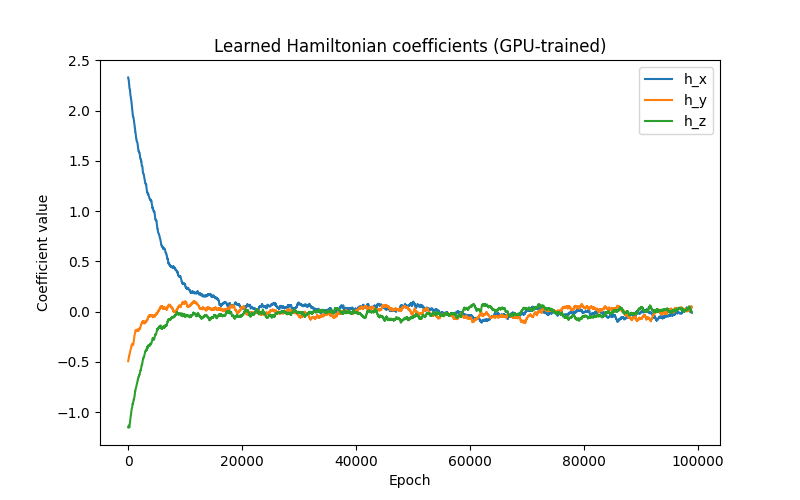
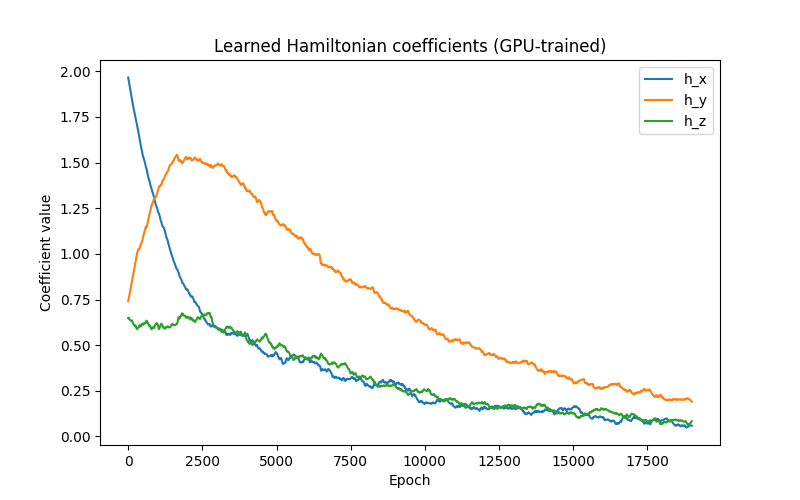
found hamiltonian

diff --git a/RNN_Code.py b/RNN_Code.py
@@ -24,12 +24,21 @@ psi_0 = torch.tensor(
     dtype=torch.complex64,  # use .complex64 for CUDA compatibility
     device=device
 )
-
+def ln(x, N):
+    sum = 0
+    for i in range(1,N):
+        term = ((-1)**(N-1)/N)*(x-I2)**N
+        sum += term
+    return sum
+def Hamiltonian(h):
+    return h[0]*X+h[1]*Y+h[2]*Z
 #Score function
 def unitary_score(H, dt):
     return (1j * H * dt).matrix_exp()
 #Loss function (particularly for reverse)
-def mean_fidelity_loss(psi, V, psi_dt):
+def mean_fidelity_loss(psi, psi_dt, model, dt):
+    H = Hamiltonian(model.h)
+    V = unitary_score(H, dt)
     return 1 - torch.abs(torch.vdot(psi, V @ psi_dt))**2
 
 def pauli_exp(psi, O):
@@ -40,9 +49,14 @@ def forward_diffusion(gamma, dt, T):
     n = int(T / dt)
     psi = [None] * n
     psi[0] = psi_0.clone()
-    O = [PAULI[np.random.randint(0, 4).item()] for _ in range(n)]
+    if(device == "cuda:0"):
+        O = [PAULI[np.random.randint(0, 4).item()] for _ in range(n)]
+    else:
+        O = [PAULI[np.random.randint(0, 4)] for _ in range(n)]
     gamma = float(gamma)
-
+    H = [None]*n
+    h = torch.randn(3)
+    H[0] = h[0]*X+h[1]*Y+h[2]*Z
     for i in range(n - 1):
         psi_i = psi[i]
         Oi = O[i].to(torch.complex64).to(device)
@@ -55,10 +69,11 @@ def forward_diffusion(gamma, dt, T):
             - (gamma / 2) * delta_O @ delta_O * dt
             + torch.sqrt(torch.tensor(gamma, device=device)) * delta_O * dW
         )
+        H[i+1] = 1j*ln(update, 100)/dt
         psi[i+1] = update @ psi_i
         psi[i+1] = psi[i+1] / torch.linalg.norm(psi[i+1])
         psi[i+1] = psi[i+1].clone().detach().requires_grad_(True)
-    return psi
+    return psi, H
 
 input_dim = 2
 hidden_dim = 64
@@ -72,7 +87,7 @@ class Diffusion_RNN(nn.Module):
     def forward(self, psi_t, dt):
         out, _ = self.rnn(psi_t)
         out = self.fc(out[:, -1, :])
-        H = self.h[0]*X+self.h[1]*Y+self.h[2]*Z
+        H = Hamiltonian(self.h)
         V = (1j*H*dt).matrix_exp()
         psi_t_complex = psi_t[:, -1, :].to(torch.complex64)
         correction = out.to(torch.complex64)
@@ -89,7 +104,7 @@ for epoch in range(num_epochs):
     total_loss = 0
 
     # simulate forward diffusion
-    sim = forward_diffusion(gamma = 0.5, dt = 0.01, T =1)
+    sim = forward_diffusion(gamma = 0.05, dt = 0.05, T =1)
     for j in range(len(sim)-1):
         # convert psi to tensor with batch and seq dimensions
         psi_t = sim[j]
@@ -97,14 +112,14 @@ for epoch in range(num_epochs):
         psi_tensor = torch.tensor(psi_t, dtype=torch.float32, device=device).unsqueeze(0).unsqueeze(0)
 
         # forward pass
-        output, V, H = model(psi_tensor, 0.01)
-        L = mean_fidelity_loss(psi_t, V, psi_dt)
+        output, V, H = model(psi_tensor, 0.05)
+        loss = mean_fidelity_loss(psi_t, psi_dt, model, dt=0.05)
 
         optimizer.zero_grad()
-        L.backward()
+        loss.backward()
         optimizer.step()
         H_history.append(model.h.detach().clone())
-        total_loss += L.item()
+        total_loss += loss.item()
 
     print(f"Epoch {epoch+1}, Loss: {total_loss / len(sim):.4f}, h = {model.h}")
 H_history = torch.stack(H_history)

diff --git a/hamiltonian.py b/hamiltonian.py
@@ -1,3 +1,16 @@
-import torch 
-import cupy as np
+import torch
+import torch.nn as nn
+import torch.optim as optim
 import random
+import matplotlib.pyplot as plt
+if(torch.cuda.is_available()):
+    device = torch.device("cuda:0")
+    import cupy as np
+else:
+    device = torch.device("cpu")
+    import numpy as np
+X = torch.tensor([[0,1],[1,0]], dtype=torch.cfloat, device=device)
+Y = torch.tensor([[0,-1j],[1j,0]], dtype=torch.cfloat, device=device)
+Z = torch.tensor([[1,0],[0,-1]], dtype=torch.cfloat, device=device)  
+I2 = torch.eye(2, dtype=torch.cfloat, device=device)
+PAULI = [I2, X, Y, Z]
